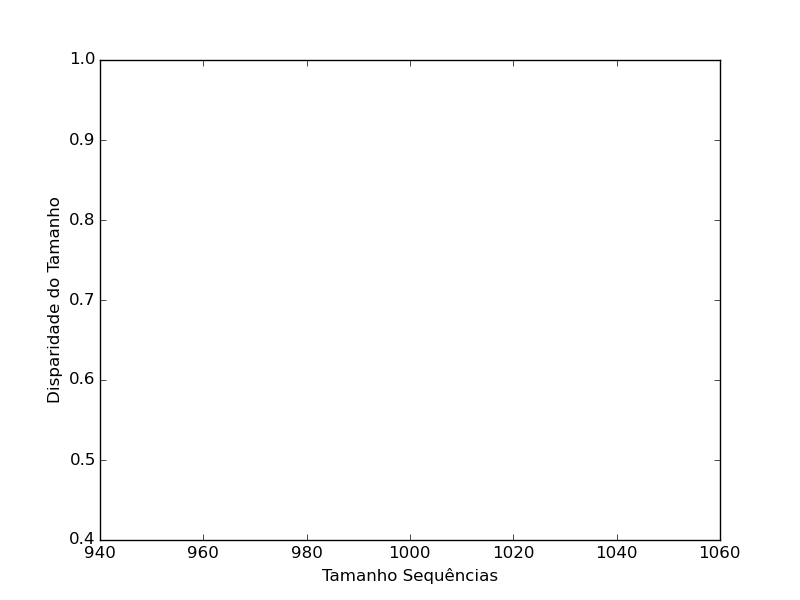
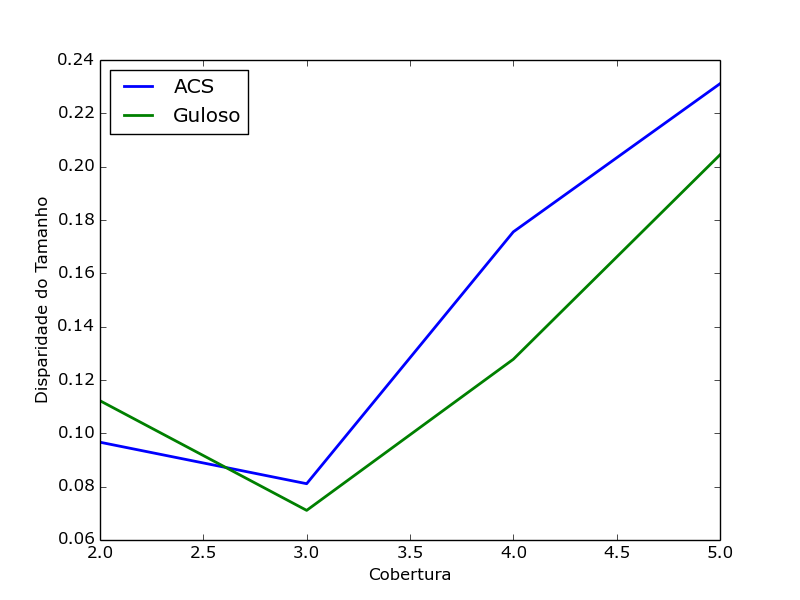
Adição de dados.

diff --git a/plot_helper.py b/plot_helper.py
@@ -4,8 +4,8 @@ def plotExecution(acoSizeVector, scsSizeVector, acoDistVector, scsDistVector,
     pathPrefix):
     # Plota grafico de tamanhos
     plt.figure(1)
-    plt.plot(acoSizeVector, linewidth=2, label = "Nosso")
-    plt.plot(scsSizeVector, linewidth=2, label = "Inimigo")
+    plt.plot(acoSizeVector, linewidth=2, label = "ACS")
+    plt.plot(scsSizeVector, linewidth=2, label = "Guloso")
     plt.legend(loc=2);
     plt.ylabel('Disparidade do Tamanho')
     plt.xlabel('Tamanho Sequências')
@@ -13,8 +13,8 @@ def plotExecution(acoSizeVector, scsSizeVector, acoDistVector, scsDistVector,
     
     # Plota grafico de distância de edição
     plt.figure(2)
-    plt.plot(acoDistVector, linewidth=2, label = "Nosso")
-    plt.plot(scsDistVector, linewidth=2, label = "Inimigo")
+    plt.plot(acoDistVector, linewidth=2, label = "AC")
+    plt.plot(scsDistVector, linewidth=2, label = "Guloso")
     plt.legend(loc=2);
     plt.ylabel('Distância de Edição')
     plt.xlabel('Tamanho Sequências')
@@ -22,16 +22,19 @@ def plotExecution(acoSizeVector, scsSizeVector, acoDistVector, scsDistVector,
     
 
 def plotPair(k1, v1, k2, v2, pathPrefix, ylabel, sufix, n):
+    v1 = sorted(v1, key=lambda score: score[0])
+    v2 = sorted(v2, key=lambda score: score[0])
+    
     plt.figure(n)
-    plt.plot(*zip(*v1))
-    plt.plot(*zip(*v2))
+    plt.plot(*zip(*v1), linewidth=2, label = "ACS")
+    plt.plot(*zip(*v2), linewidth=2, label = "Guloso")
     plt.legend(loc=2);
     plt.ylabel(ylabel)
-    plt.xlabel('Tamanho Sequências')
+    plt.xlabel('Cobertura')
     plt.savefig(pathPrefix + "-" + sufix +  ".png")
 
 
-def plotAll(data, pathPrefix):
+def plotAll(data, pathPrefix, keyPosition = 2):
     # Vetor de dados com tamanho das soluções
     acoSizeVector = []
     acoSizeVectorLabel = []
@@ -49,22 +52,22 @@ def plotAll(data, pathPrefix):
             for k, v in value.items():
                 if k == "aco":
                     for k2, v2 in v.items():
-                        acoDistVectorLabel.append(k2.split("-")[0])
-                        acoDistVector.append([k2.split("-")[0], v2])
+                        acoDistVectorLabel.append(k2.split("-")[keyPosition])
+                        acoDistVector.append([float(k2.split("-")[keyPosition]), v2])
                 else:
                     for k2, v2 in v.items():
-                        gdyDistVectorLabel.append(k2.split("-")[0])
-                        gdyDistVector.append([k2.split("-")[0], v2])
+                        gdyDistVectorLabel.append(k2.split("-")[keyPosition])
+                        gdyDistVector.append([float(k2.split("-")[keyPosition]), v2])
         if key == "tam":
             for k, v in value.items():
                 if k == "aco":
                     for k2, v2 in v.items():
-                        acoSizeVectorLabel.append(k2.split("-")[0])
-                        acoSizeVector.append([k2.split("-")[0], v2])
+                        acoSizeVectorLabel.append(k2.split("-")[keyPosition])
+                        acoSizeVector.append([float(k2.split("-")[keyPosition]), v2])
                 else:
                     for k2, v2 in v.items():
-                        gdySizeVectorLabel.append(k2.split("-")[0])
-                        gdySizeVector.append([k2.split("-")[0], v2])
+                        gdySizeVectorLabel.append(k2.split("-")[keyPosition])
+                        gdySizeVector.append([float(k2.split("-")[keyPosition]), v2])
     
     # Gera de tamanho
     plotPair(acoSizeVectorLabel, acoSizeVector, gdySizeVectorLabel, 
@@ -72,7 +75,7 @@ def plotAll(data, pathPrefix):
     
      # Gera de distancia
     plotPair(acoDistVectorLabel, acoDistVector, gdyDistVectorLabel, 
-             gdyDistVector, pathPrefix, 'Distância de Edição', "gdy", 6)
+             gdyDistVector, pathPrefix, 'Distância de Edição', "dist", 6)
     
     
                 

diff --git a/aco_solver2.py b/aco_solver2.py
@@ -73,7 +73,7 @@ def getFromCandidateList(clM, start, unvisited):
     
    
 def antWalk(nodes, nodesSize, distM, phoM, start, phomDeposited, clM,
-            beta, q0):
+            beta, q0, cl):
     unvisited = list(range(0, nodesSize))
 
     i = start
@@ -84,7 +84,7 @@ def antWalk(nodes, nodesSize, distM, phoM, start, phomDeposited, clM,
     pathSize = 0
     
     while len(unvisited) > 0:   
-        j = step(i, unvisited, distM, phoM, beta, q0, clM)
+        j = step(i, unvisited, distM, phoM, beta, q0, clM, cl)
         
         # Verifica se não há mais caminhos válidos
         if (j < 0):
@@ -99,10 +99,10 @@ def antWalk(nodes, nodesSize, distM, phoM, start, phomDeposited, clM,
 
     return path, pathSize
 
-def step(start, unvisited, distM, phoM, beta, q0, clM):
+def step(start, unvisited, distM, phoM, beta, q0, clM, cl):
     q = random.random()
 
-    if q <= q0:
+    if cl and q <= q0:
         end = getFromCandidateList(clM, start, unvisited)
         if end > 0:
             return end
@@ -148,12 +148,12 @@ def localUpdate(path,pathSize, phomDeposited, alpha, phoM, bestPath):
         + (alpha * phomDeposited )
 
 def initializeCL(nodesSize, distM):
-    clM = np.zeros((nodesSize, 15))
+    clM = np.zeros((nodesSize, min(15, nodesSize)))
     
     for i in range(nodesSize):
         sorted = np.argsort(distM[i,:])
        
-        clM[i,:] = sorted[::-1][:15]
+        clM[i,:] = sorted[::-1][:min(15, nodesSize)]
     
     return clM.astype(int)
 
@@ -199,8 +199,8 @@ def localOptimization(path, clM, distM, nodesSize):
 """
 Executa colonia de formigas em busca do caminho hamiltoniano de maior peso
 """
-def solve(nodes, dist, nAnts = 20, iterations = 100, initialPath = [],
-          alpha=0.1, beta = 2, q0 = 0.9):
+def solve(nodes, dist, nAnts = 10, iterations = 150, initialPath = [],
+          alpha=0.1, beta = 2, q0 = 0.9, cl = True):
     nodesSize = len(nodes)
     
     # Reseta a seed do random
@@ -248,7 +248,7 @@ def solve(nodes, dist, nAnts = 20, iterations = 100, initialPath = [],
         # Caminha com cada formiga pelo grafo
         for i in range(0, nAnts):
             path, pathSize = antWalk(nodes, nodesSize, distM, phoM, starts[i],
-                                     phomDeposited, clM, beta, q0)
+                                     phomDeposited, clM, beta, q0, cl)
             antPaths[i] = path
             antPathsSize[i] = pathSize
         
@@ -265,7 +265,7 @@ def solve(nodes, dist, nAnts = 20, iterations = 100, initialPath = [],
                # localUpdate(path, pathSize, phomDeposited, alpha, phoM, solution.pathSize)
 
             if solution.pathSize == 0 or solution.pathSize < pathSize:
-                print("Resolve Trocar =D =D =D", pathSize)
+                print("Novo ótimo:", pathSize)
                 plateu = 0
                 solution = Solution(path, pathSize)
             else:
@@ -286,10 +286,10 @@ def solve(nodes, dist, nAnts = 20, iterations = 100, initialPath = [],
              
         globalUpdate(solution, alpha, phoM)
         
-    
-    plt.figure(1)
-    plt.plot(be, label = "be")
-    plt.show()
+#     
+#     plt.figure(1)
+#     plt.plot(be, label = "be")
+#     plt.show()
     
      #Converte indices para nos
     for edge in solution.path:

diff --git a/main.py b/main.py
@@ -36,9 +36,9 @@ if not os.path.exists(os.path.dirname(dataPath)):
 
 # Inicia os framentos
 # Descomentar para gerar as sequências
-# for i in range(1, 4):
-#  	generator.generate(fragmentsDir, seqDir, i, seqSize,
-#  		fragmentSize-15, fragmentSize, coverage)
+for i in range(1, 10):
+	generator.generate(fragmentsDir, seqDir, i, seqSize, 
+					fragmentSize-5, fragmentSize, coverage)
 
 # Gera arquivo de output
 st = str(seqSize) + "-" + str(fragmentSize) + "-" + str(coverage)
